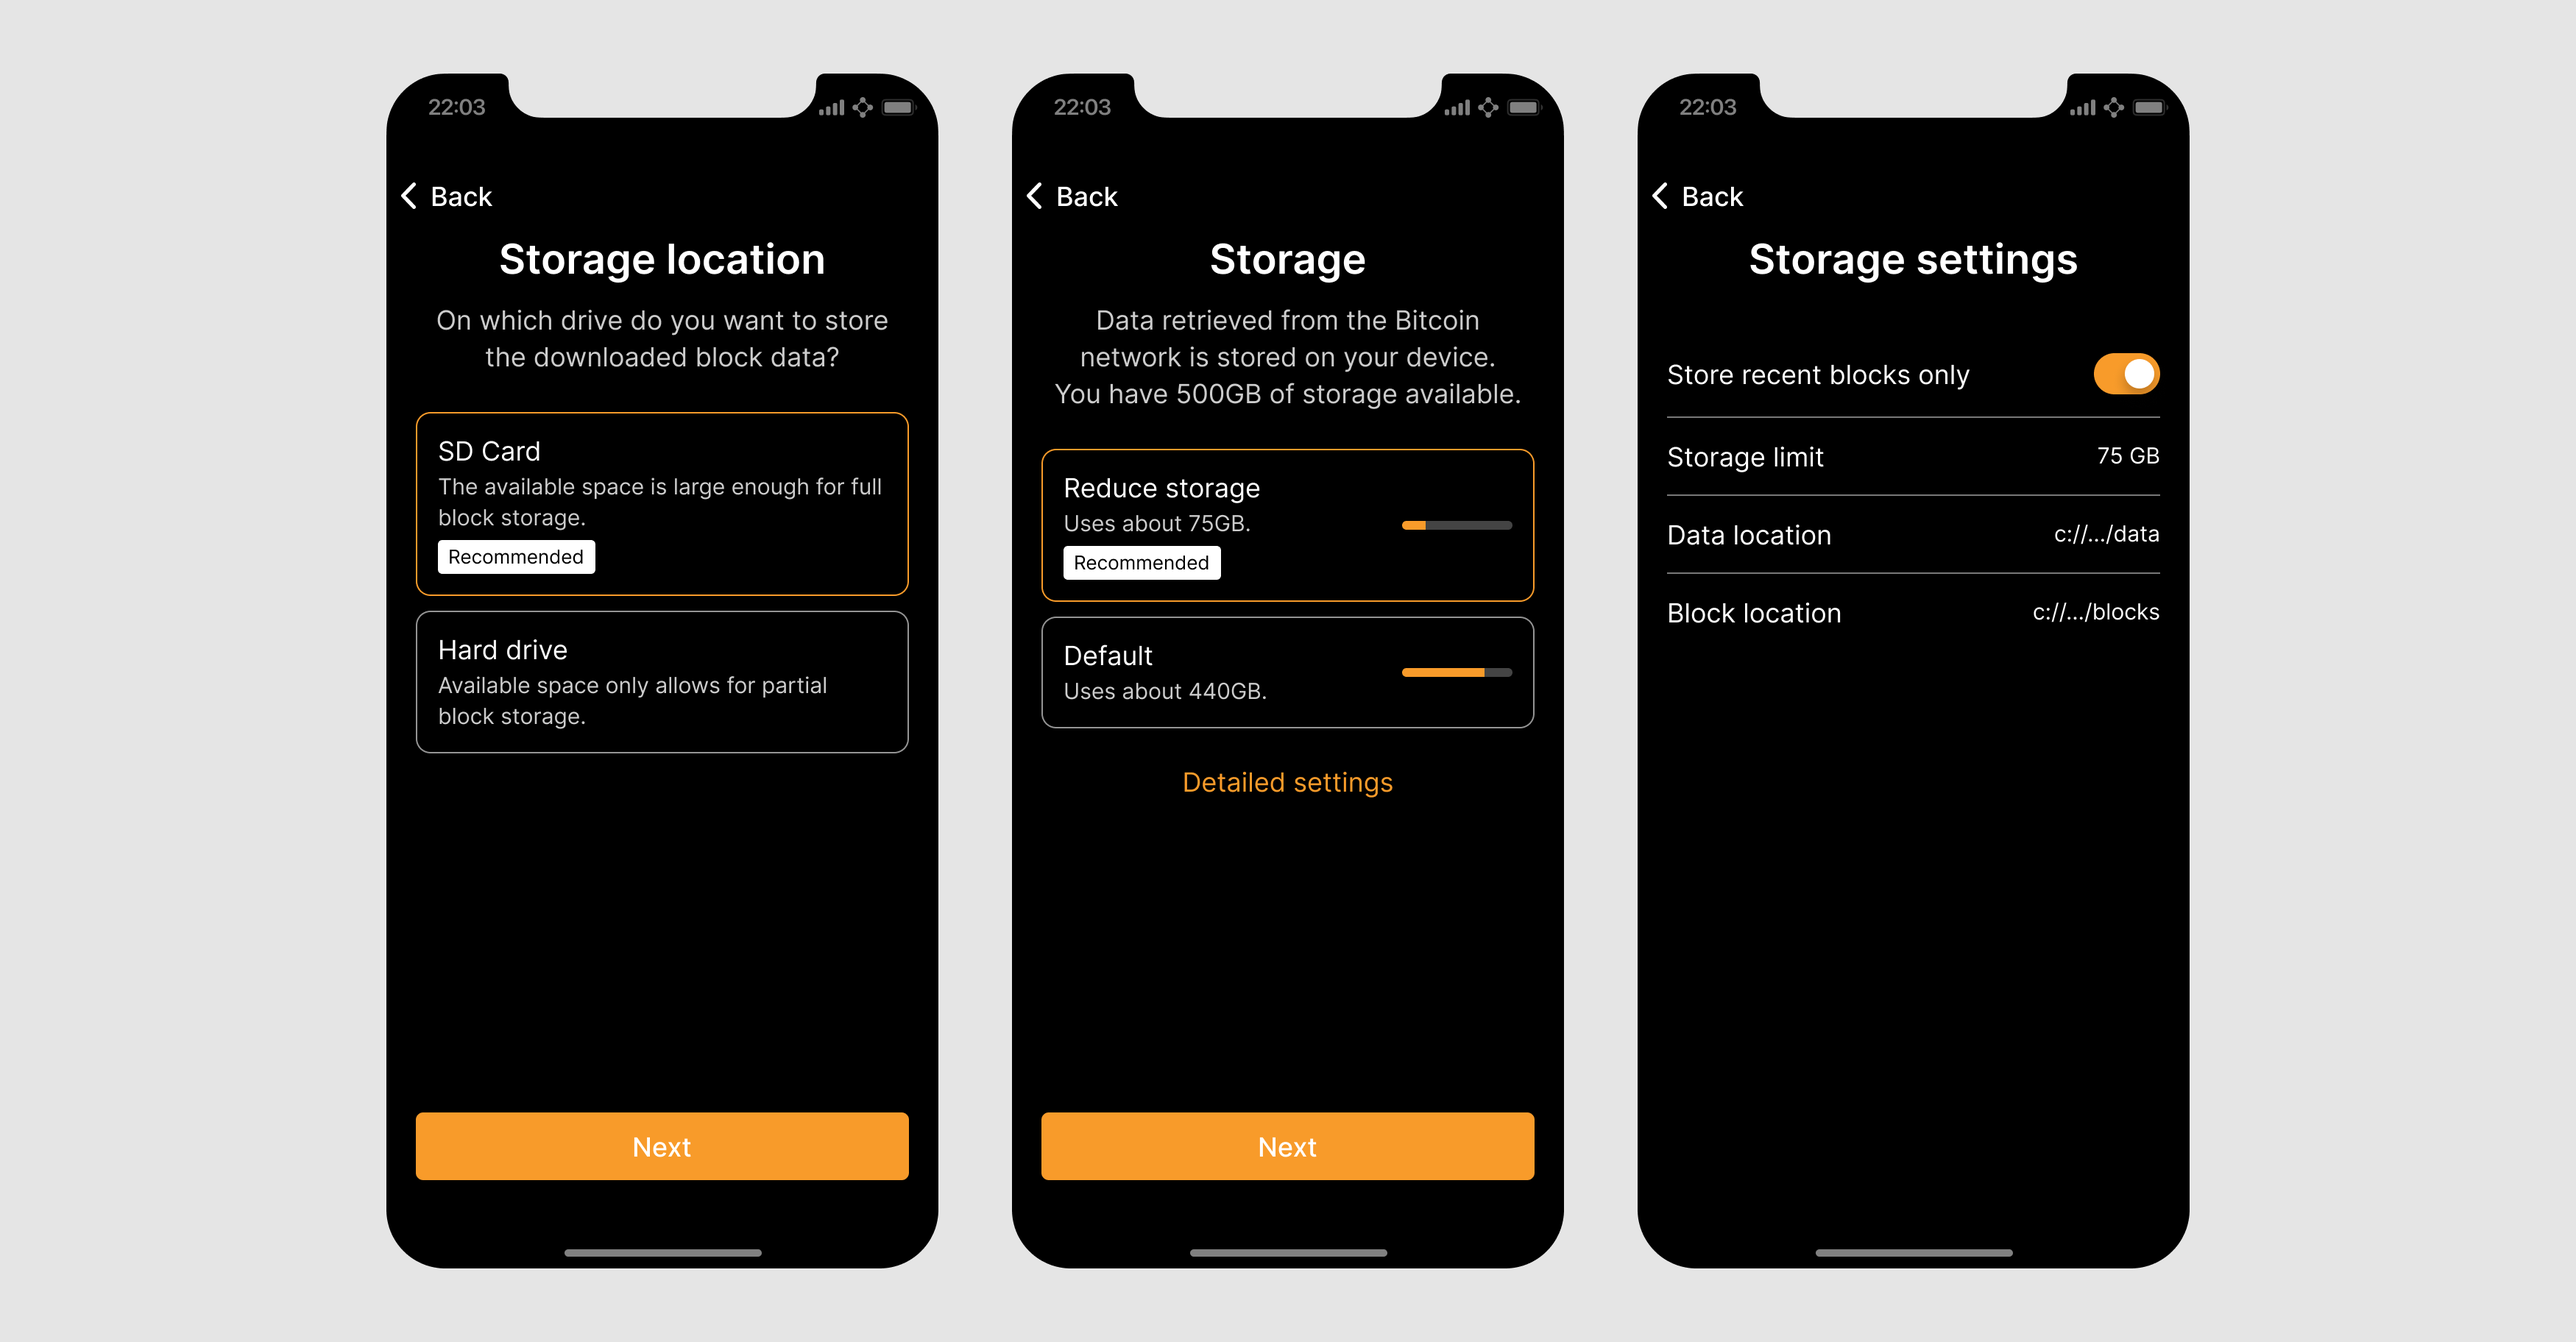
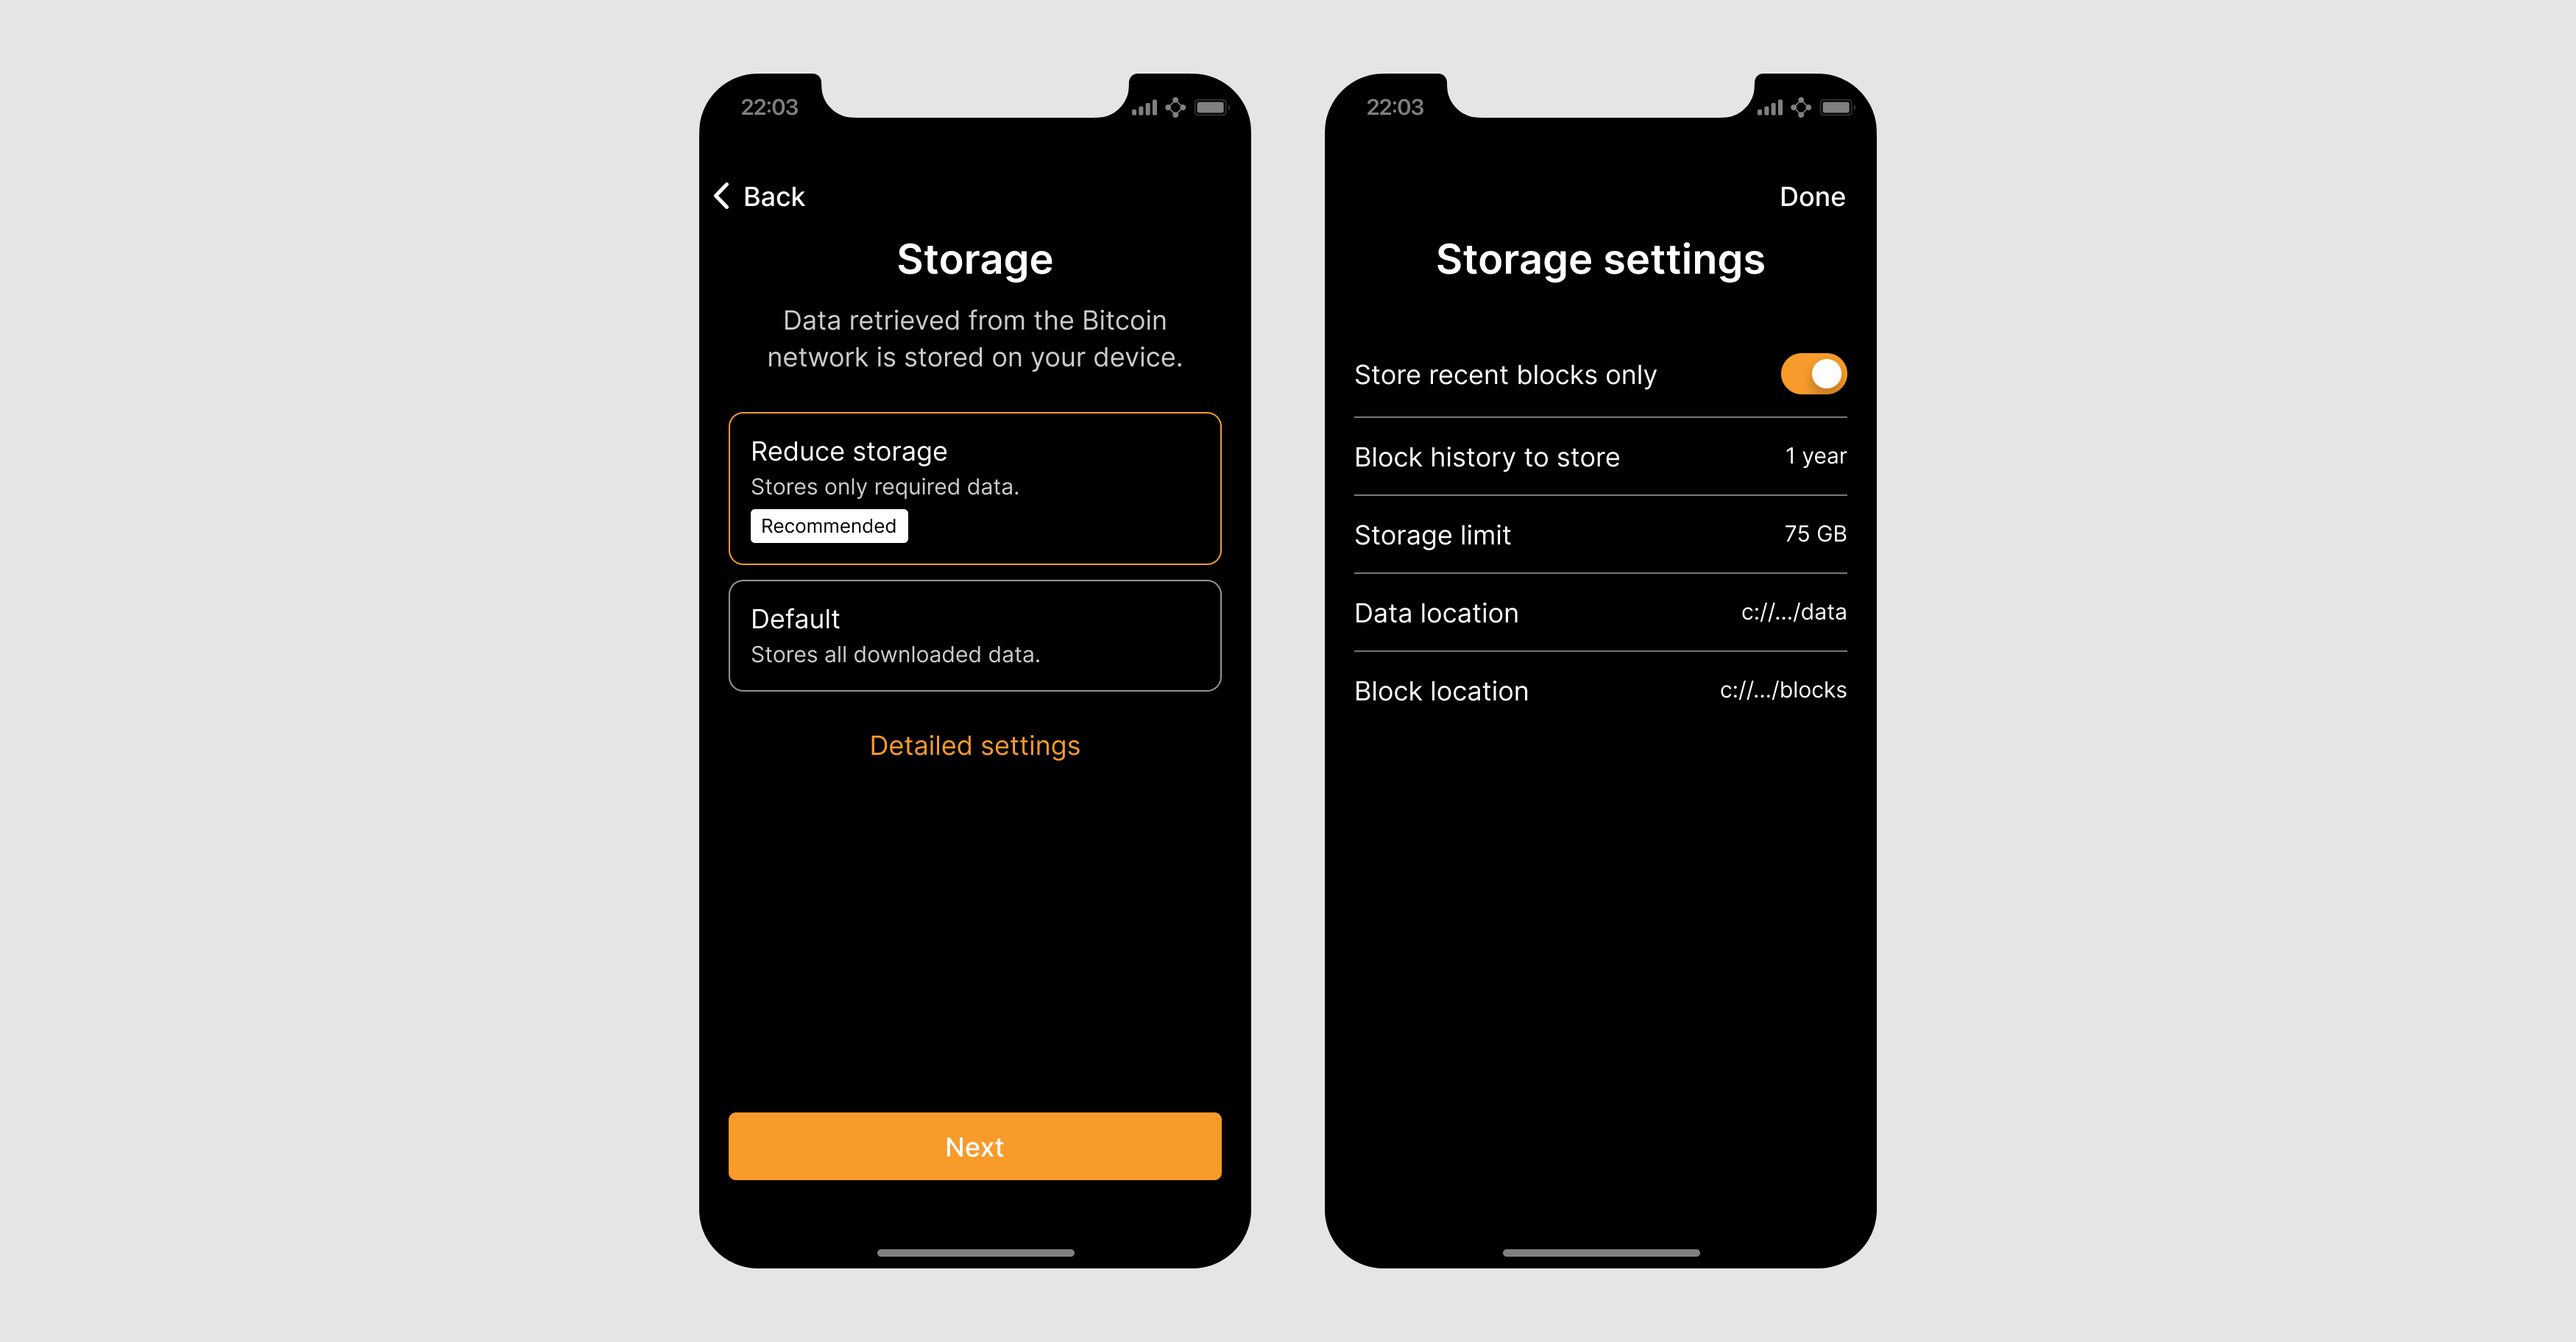
First use image updates
Combined IBD info and connection settings, which also removed the connection category options. We decide to not include them because they are mostly relevant to mobile, which will not be supported for the time being.

Minor copy update to the storage screens for clarity (avoiding specific GB amounts as they can be confusing).

diff --git a/pages/first-use.md b/pages/first-use.md
@@ -43,23 +43,14 @@ Since the application requires a lot of storage, we may want to offer users some
 	height = 417
 %}
 
+The first use ends with the initial block download. It's a time-consuming activity that users are typically not familiar with from other applications. The following screen ensures that they understand what will happen next, when they will navigate the application independently.
+
 Bandwidth may also be limited or expensive for the user, particularly on mobile. The initial block download is particularly problematic, so we may want to ensure that users are guided towards the best option.
 
 {% include picture.html
-	image = "/assets/images/first-use/connection.png"
-	retina = "/assets/images/first-use/connection@2x.png"
-	big = "/assets/images/first-use/connection-big.png"
-	alt-text = ""
-	width = 800
-	height = 417
-%}
-
-The first use ends with the initial block download. It's a time-consuming activity that users are typically not familiar with from other applications. The following screen ensures that they understand what will happen next, when they will navigate the application independently.
-
-{% include picture.html
-	image = "/assets/images/first-use/ibd-info.png"
-	retina = "/assets/images/first-use/ibd-info@2x.png"
-	big = "/assets/images/first-use/ibd-info-big.png"
+	image = "/assets/images/first-use/ibd-and-connection.png"
+	retina = "/assets/images/first-use/ibd-and-connection@2x.png"
+	big = "/assets/images/first-use/ibd-and-connection-big.png"
 	alt-text = ""
 	width = 800
 	height = 417
